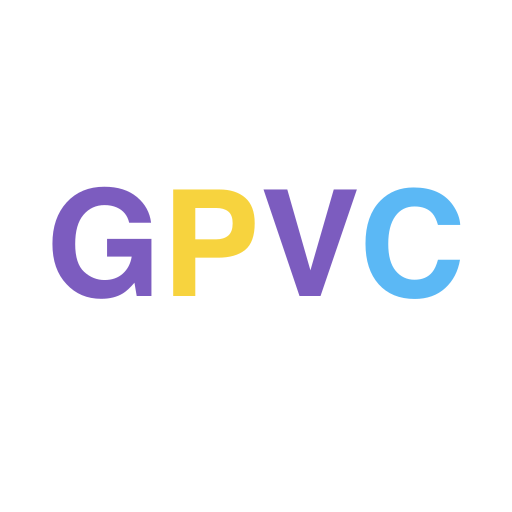
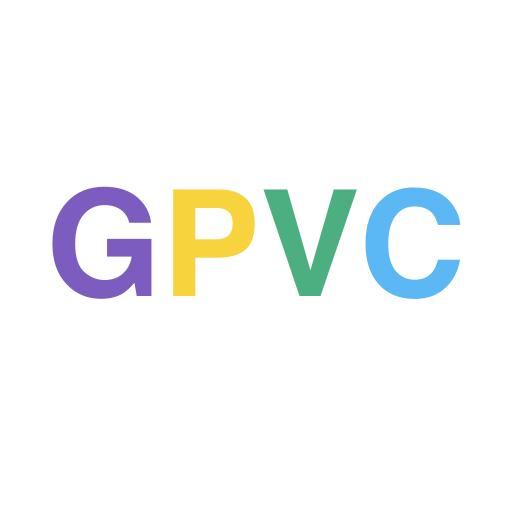
ロゴをGifu Pole Vaulters Clubに変更、アイコン色を調整
- LogoText: Vault→Vaulters (ers追加、各差し色付き)
- V の差し色を紫→緑(#4CAF82)に変更しGと差別化
- ホームアイコン: G(紫)P(黄)V(緑)C(水色)に更新

Changed region(s): [[0.5, 0.3438, 0.7188, 0.5938]]

diff --git a/components/LogoText.tsx b/components/LogoText.tsx
@@ -28,11 +28,14 @@ const CHARS: {
   { char: 'l', accent: ACCENTS[6], angle:  90, from: 35, to: 65 },
   { char: 'e', accent: ACCENTS[7], angle: 100, from: 40, to: 65 },
   { char: ' ' },
-  { char: 'V', accent: ACCENTS[0], angle: 130, from: 25, to: 50 },
+  { char: 'V', accent: ACCENTS[7], angle: 130, from: 25, to: 50 },
   { char: 'a', accent: ACCENTS[2], angle:  85, from: 50, to: 75 },
   { char: 'u', accent: ACCENTS[4], angle: 115, from: 20, to: 45 },
   { char: 'l', accent: ACCENTS[6], angle:  90, from: 55, to: 80 },
   { char: 't', accent: ACCENTS[1], angle: 105, from: 30, to: 55 },
+  { char: 'e', accent: ACCENTS[5], angle:  95, from: 40, to: 65 },
+  { char: 'r', accent: ACCENTS[3], angle:  85, from: 25, to: 50 },
+  { char: 's', accent: ACCENTS[1], angle: 110, from: 50, to: 75 },
   { char: ' ' },
   { char: 'C', accent: ACCENTS[5], angle: 125, from: 45, to: 70 },
   { char: 'l', accent: ACCENTS[3], angle:  90, from: 20, to: 50 },
@@ -44,7 +47,7 @@ export default function LogoText({ className }: { className?: string }) {
   return (
     <span
       className={`${nunito.className} ${className ?? ''}`}
-      aria-label="Gifu Pole Vault Club"
+      aria-label="Gifu Pole Vaulters Club"
     >
       {CHARS.map((c, i) => {
         if (c.char === ' ') {
